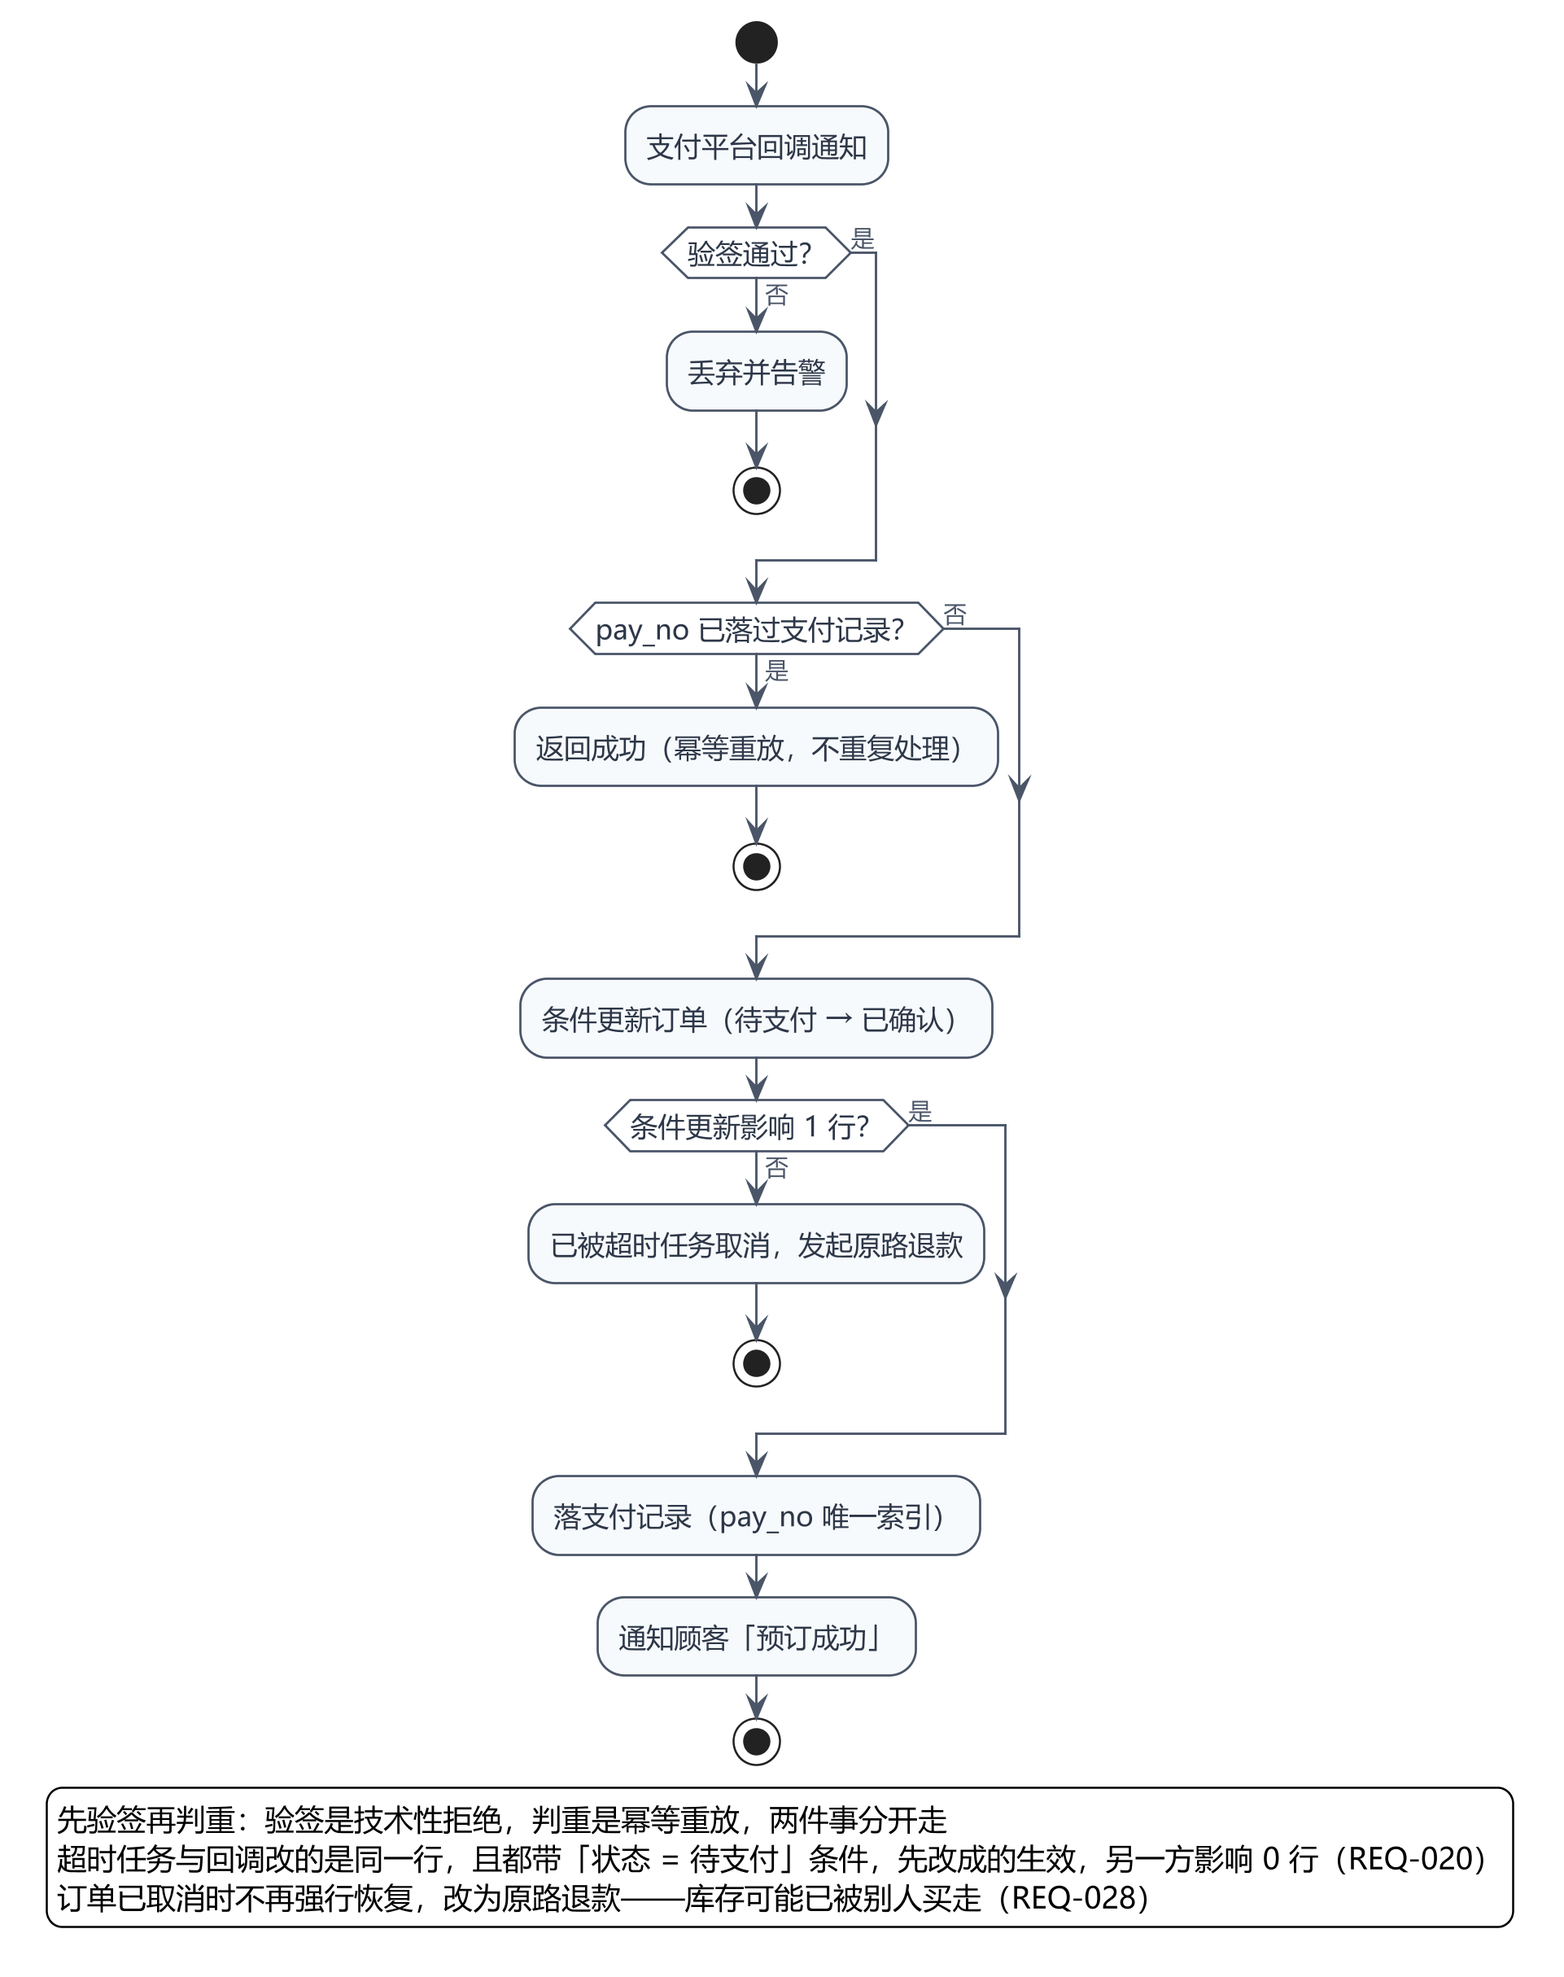
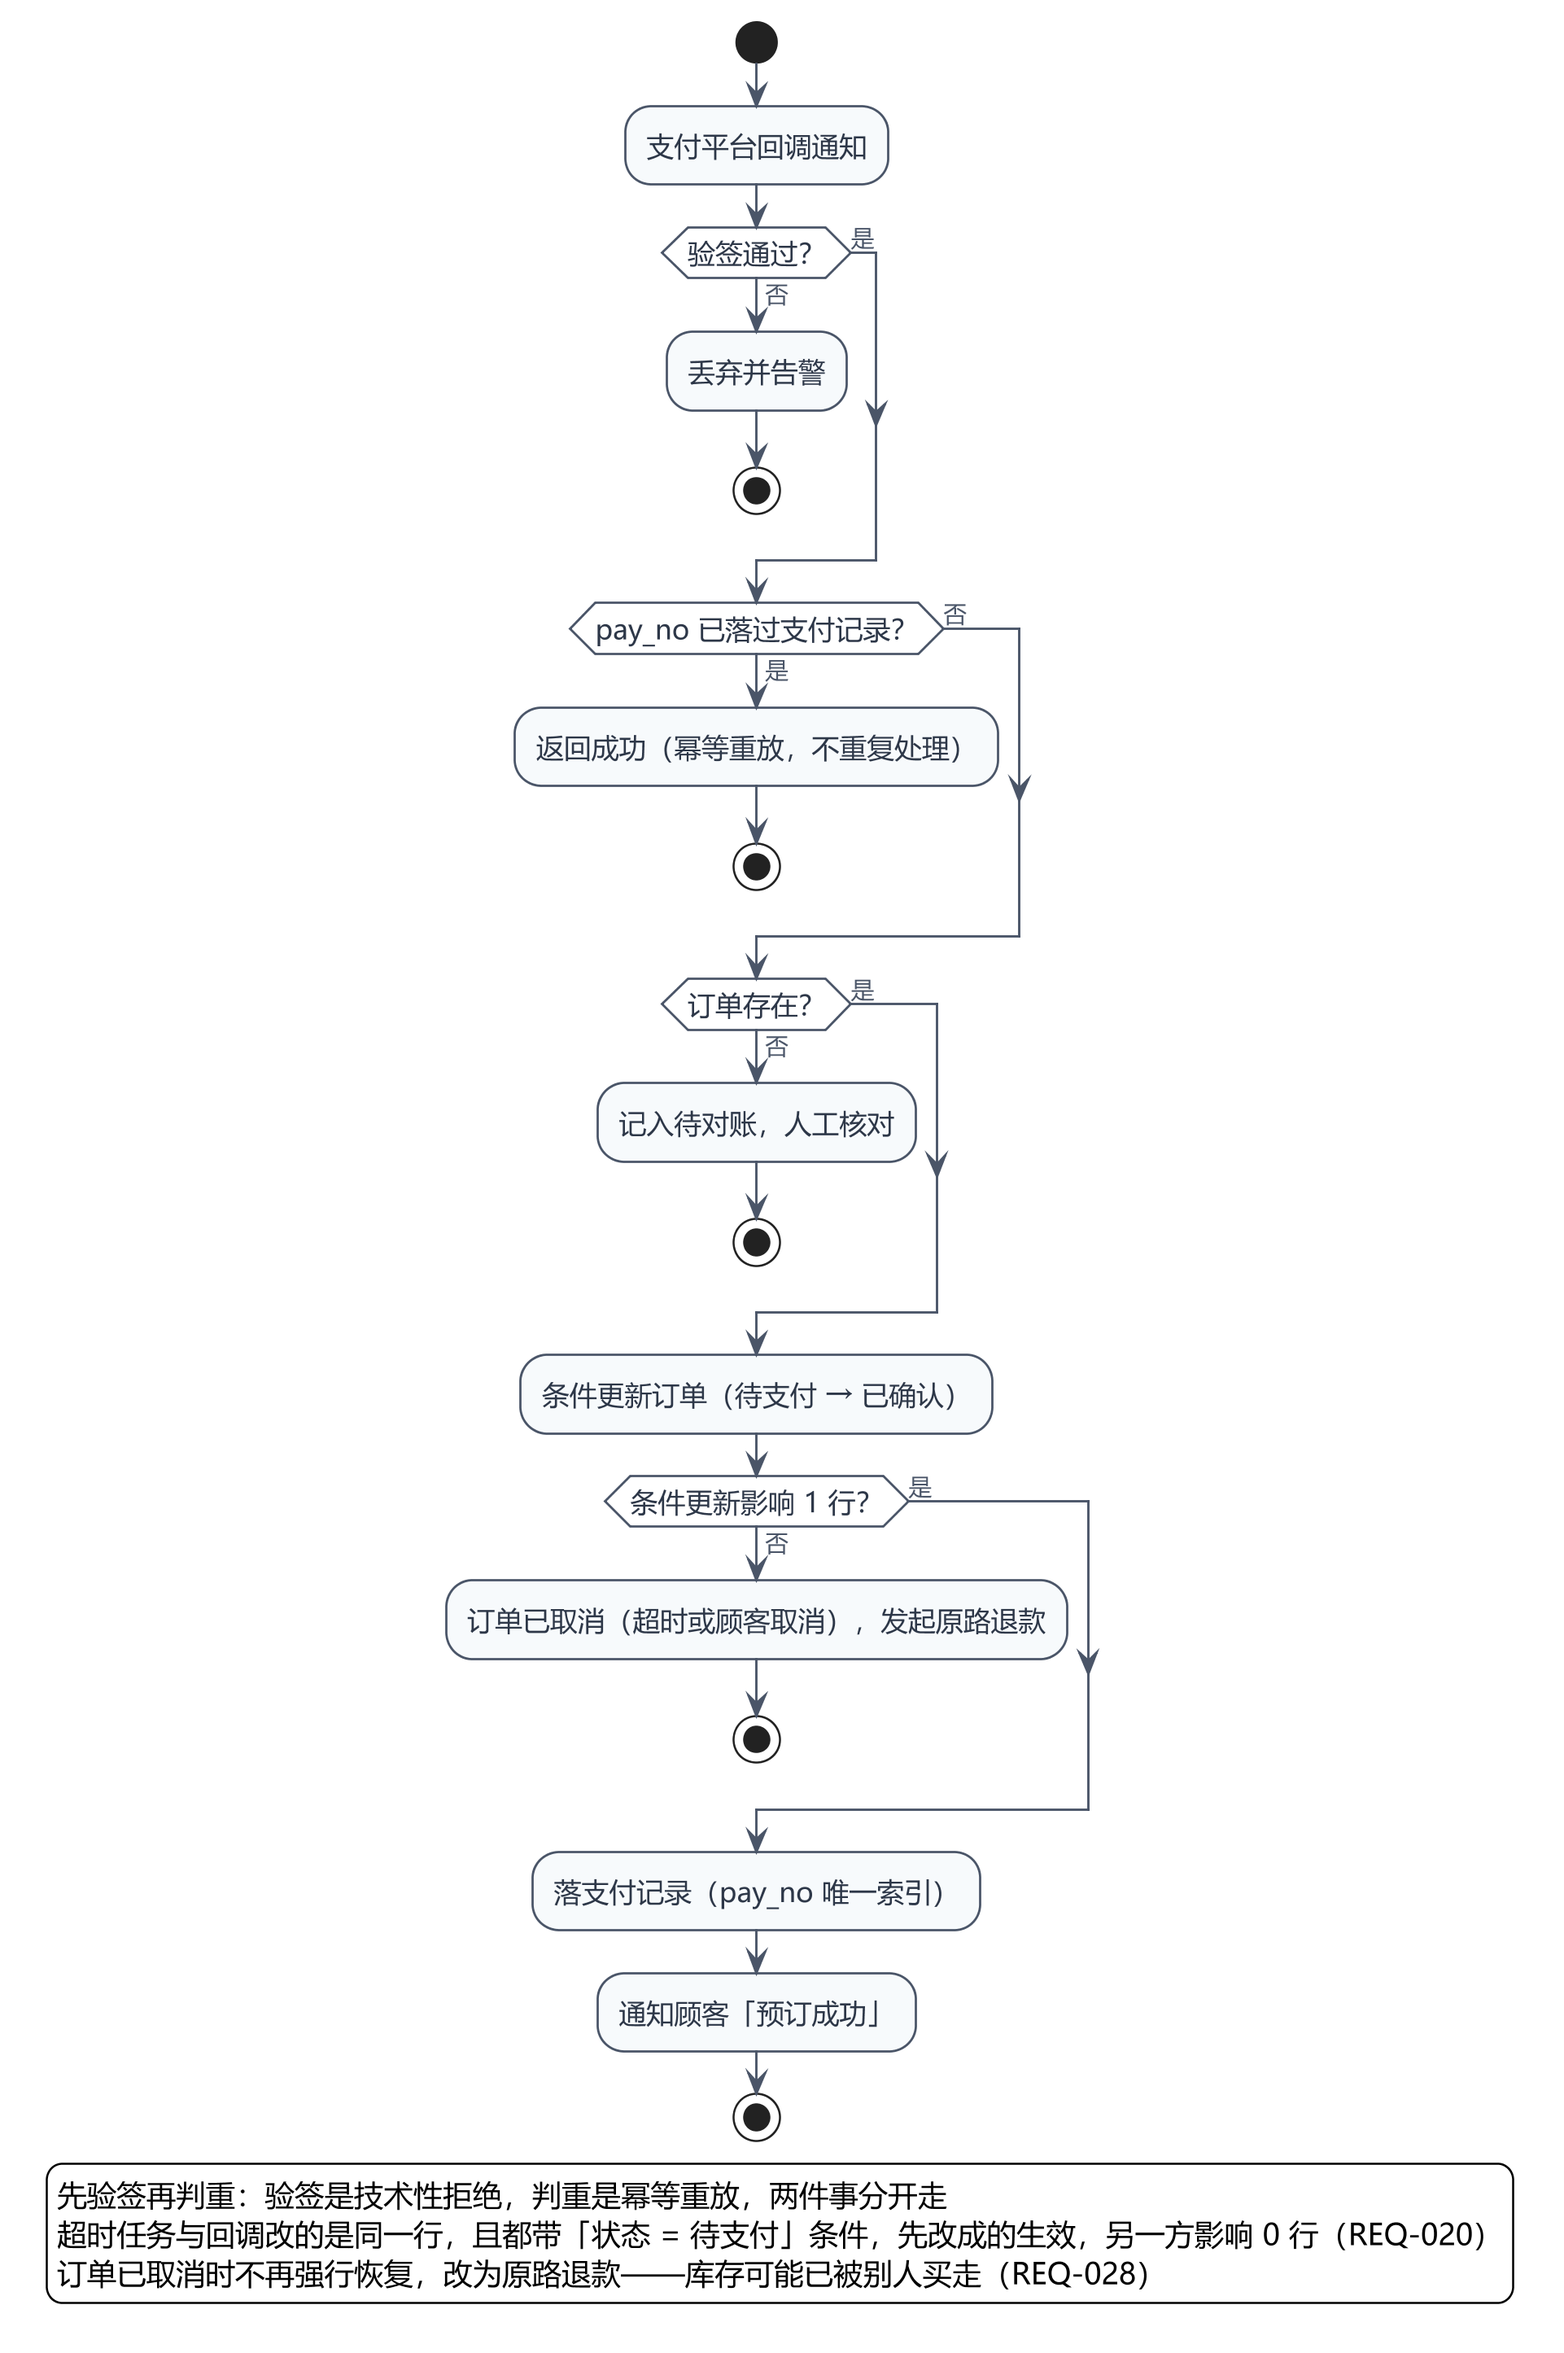
按第三轮评审修正用例图同步、状态机与对账缺口
- 重出店长端用例图 PNG（此前 PNG 早于 puml 修改）
- 订单状态图补「未到店 → 已取消（自助/审批）」，同步转换表
- 支付回调活动图补「订单不存在 → 待对账」分支
- orders 表补可空 pay_no 唯一列，支撑对账补单幂等
- 类图占房记录改按晚、补片区—用户关联、审计日志补字段
- 统一第 7 章表数口径与提交记录，写明 9 屏由 HTML 重出
- 16 屏删除区间外特批，改为超区间拒绝

Changed region(s): [[0.0312, 0.0, 0.9677, 0.9881]]

diff --git a/实验报告/ch7.tex b/实验报告/ch7.tex
@@ -90,7 +90,7 @@ U-07 & 数据库表结构起草 & 第 4 章的 22 张表与约束说明 & 初稿
 
 \textbf{生成结果。} AI 根据功能清单和跨屏示例数据，用 HTML 与 CSS 生成 01--16 屏初稿，后来补出 17--19 屏，并提供页面文字、表格与状态样式。曾尝试用 Pixso AI 批量生成界面，但出现漏字段和编造数字的问题，因此实际图稿以 HTML/CSS 初稿为基础导入 Pixso。
 
-\textbf{讨论与修改。} 我与 AI 讨论排房三步、线下保留额度、审批和各角色可见范围等界面内容。核对时发现不同屏的库存、金额、评分和取消文案不一致，要求按需求原文和统一示例数据修正，具体问题见 U-04。导入 Pixso 后，我调整了部分界面的圆角、描边和间距，再导出 19 张 PNG。
+\textbf{讨论与修改。} 我与 AI 讨论排房三步、线下保留额度、审批和各角色可见范围等界面内容。核对时发现不同屏的库存、金额、评分和取消文案不一致，要求按需求原文和统一示例数据修正，具体问题见 U-04。导入 Pixso 后，我调整了部分界面的圆角、描边和间距，再导出 PNG。最后一轮修改中，价格、审批、人员清单等 9 屏改完 HTML 后由无头浏览器按 2 倍像素重出，未再回到 Pixso 调整。
 
 \textbf{优缺点与结果。} AI 能较快给出一组风格相近的页面，便于检查每个模块是否有入口；它不能自动保证跨屏数据、权限和业务规则一致。最终以修订后的 19 张图和第 6 章的界面—模块—需求表为准。
 
@@ -116,7 +116,7 @@ U-07 & 数据库表结构起草 & 第 4 章的 22 张表与约束说明 & 初稿
 
 \subsection{git 提交与人工修改记录}
 
-\textbf{记录方式。} 仓库从实验二第一版设计稿建立，此后每轮改动单独提交，提交信息写实际改了什么，不把 AI 初稿和人工修改拆成两个编造出来的提交。截至本轮修改前共 9 次提交：
+\textbf{记录方式。} 仓库从实验二第一版设计稿建立，此后每轮改动单独提交，提交信息写实际改了什么，不把 AI 初稿和人工修改拆成两个编造出来的提交。报告定稿前共 11 次提交，另有一次定稿提交：
 
 \begin{table}[H]
 \centering
@@ -135,6 +135,8 @@ U-07 & 数据库表结构起草 & 第 4 章的 22 张表与约束说明 & 初稿
 \texttt{347934e} & 2026-11-08 & 统一 AI 设计与总结两处的协作流程表述 \\
 \texttt{8544262} & 2026-11-08 & 第 8.3 节由八项未完成事项精简为两项 \\
 \texttt{a822c19} & 2026-11-08 & 删除实验二不要求的「与实验三的衔接」一节 \\
+\texttt{2f793d4} & 2026-11-08 & 修正并发抢房时序图的下单顺序；第 4 章补片区、排班、价格区间三表 \\
+\texttt{db6ebf0} & 2026-11-08 & 按评审意见改用例职责、逐晚计价与线下额度拒绝规则 \\
 \bottomrule
 \end{tabularx}
 \end{table}
@@ -147,7 +149,7 @@ U-07 & 数据库表结构起草 & 第 4 章的 22 张表与约束说明 & 初稿
   \item \textbf{删掉要求之外的内容。} 报告末尾原有的「对实验三的衔接」一节，我对照实验二要求确认并非必需，要求删除；第 6.1.1 节的布局配色参数同样因与实验内容无关而删除。
 \end{enumerate}
 
-\textbf{本轮新增的三张表。} 对照类图核对数据表时发现，类图里的片区、排班、价格区间三个实体在第 4 章没有对应表，\texttt{user} 和 \texttt{store} 的 \texttt{region\_id} 也因此没有父表。据此补 \texttt{region}、\texttt{schedule}、\texttt{price\_range} 三张表，表数由 17 改为 20，属本轮人工核对后发现的缺口。
+\textbf{后续两次补表。} 对照类图逐类核对数据表时发现两处缺口。第一次是片区、排班、价格区间三个实体，\texttt{user} 和 \texttt{store} 的 \texttt{region\_id} 也因此没有父表，据此补 \texttt{region}、\texttt{schedule}、\texttt{price\_range} 三张表，表数由 17 改为 20。第二次是删除数据申请与门店绩效汇总两个类，补 \texttt{delete\_request}、\texttt{store\_performance} 两张表，表数改为 22。两次都由人工核对发现，不是 AI 起草时给出的。
 
 \textbf{早期迭代的处理。} 首次入库之前的设计迭代（模块从 10 个减到 9 个又回到 10 个、类图十余版、状态图二十余版）没有以提交形式保留。把它拆成「AI 初稿 / 人工修改」两个提交可以做出好看的差异记录，但那个初稿是按最终稿反推的，不是当时真实的文件，因此没有这样补。真实过程记在本章各条记录和 \texttt{\_过程材料/AI使用记录.md} 中。
 

diff --git a/实验报告/ch5.tex b/实验报告/ch5.tex
@@ -18,8 +18,8 @@
 3 & UML 组件图 & 结构 & 十个模块的调用与订阅，回答「模块之间怎么协作」 \\
 4 & UML 部署图 & 结构 & 应用、缓存、数据库与外部系统的物理分布 \\
 5 & UML 用例图·顾客端 & 行为 & 顾客能做什么，include / extend 关系 \\
-6 & UML 用例图·前台端 & 行为 & 前台的九个用例与「入住包含排房」 \\
-7 & UML 用例图·店长端 & 行为 & 店长的七个用例与「改价扩展自设价」 \\
+6 & UML 用例图·前台端 & 行为 & 前台的十个用例与「入住包含排房」 \\
+7 & UML 用例图·店长端 & 行为 & 店长的七个用例：设价、三类审批、派单、排班、看绩效 \\
 8 & UML 用例图·平台端 & 行为 & 平台地区负责人的六个用例 \\
 9 & UML 状态图·订单 & 行为 & 订单六态与超时、未到店两条时间分支 \\
 10 & UML 状态图·房间 & 行为 & 房间六态与维修旁路 \\
@@ -59,7 +59,7 @@
 
 \begin{figure}[htbp]
 \centering
-\includegraphics[width=0.72\textwidth]{../UML/UML用例图_前台端.png}
+\includegraphics[width=0.66\textwidth]{../UML/UML用例图_前台端.png}
 \caption{UML 用例图：前台端}
 \label{fig:uc_f}
 \end{figure}
@@ -113,7 +113,8 @@
 已确认 & 已取消 & 自助 / 审批通过 & 18:00 为界（REQ-021） \\
 已确认 & 未到店 & 定时任务 & 入住日 22:00 \\
 未到店 & 已入住 & 前台办理入住 & 仅限次日 12:00 前 \\
-未到店 & 已取消 & 定时任务 & 次日 12:00，不退房费 \\
+未到店 & 已取消 & 自助 / 审批通过 & 次日 12:00 前主动取消（REQ-021） \\
+未到店 & 已取消 & 定时任务 & 次日 12:00 仍未到店，不退房费 \\
 已入住 & 已退房 & 前台确认退房 & 与房间状态同步变更 \\
 \midrule
 \multicolumn{4}{@{}l}{\zihao{5}禁止：待支付 $\rightarrow$ 已入住 / 已退房 / 未到店；已确认 $\rightarrow$ 已退房；已入住 $\rightarrow$ 已取消 / 未到店；} \\

diff --git a/实验报告/ch4.tex b/实验报告/ch4.tex
@@ -225,6 +225,7 @@ created\_by & CHAR(20) & FK & 下发该区间的平台地区负责人 \\
 \midrule
 order\_no & CHAR(22) & PK & 订单号，含日期前缀 \\
 request\_no & CHAR(36) & \textbf{UNIQUE} & 请求号，REQ-010 的幂等键 \\
+pay\_no & CHAR(32) & NULL, \textbf{UNIQUE} & 支付单号；对账补单时回填，保证同一笔支付只补一单 \\
 customer\_id & CHAR(20) & FK & 下单顾客 \\
 store\_id & CHAR(20) & FK & 所属门店 \\
 status & TINYINT & NOT NULL & 六种订单状态之一 \\
@@ -333,7 +334,7 @@ assigned\_at & DATETIME & NOT NULL & 排房时刻 \\
 \midrule
 \texttt{approval} & 三类审批共表，字段 \texttt{type} 区分改价 / 取消 / 升级房型；流水号唯一，防止同一申请重复入审批 \\[2pt]
 \texttt{review} & \texttt{order\_no} 唯一，保证一单一评；评分 \texttt{CHECK (score BETWEEN 1 AND 5)} \\[2pt]
-\texttt{audit\_log} & 只增不改；数据库账号对该表只授予 INSERT 与 SELECT，不授予 UPDATE、DELETE \\[2pt]
+\texttt{audit\_log} & 记录操作人、角色快照、原因、来源 IP 与设备、动作、对象、变更前后值与时间；只增不改，数据库账号对该表只授予 INSERT 与 SELECT（REQ-014） \\[2pt]
 \texttt{notice} & 记录渠道、状态、失败原因、重试次数、下次重试时间；与订单事务无关，写入失败不影响下单 \\[2pt]
 \texttt{reconciliation} & 每日一条对账任务记录，差异单笔落行，\texttt{handle\_result} 记录补单 / 退款 / 转人工 \\[2pt]
 \texttt{delete\_request} & \texttt{request\_id}（PK）、\texttt{target\_type} 与 \texttt{target\_id} 指明待删数据、\texttt{reason}、\texttt{requester\_id}、\texttt{approver\_id}、\texttt{status}（待审批 / 已批准 / 已驳回）；同一对象未结案时唯一，批准后由 M9 执行删除并留审计（REQ-030） \\[2pt]

diff --git a/实验报告/ch6.tex b/实验报告/ch6.tex
@@ -1,7 +1,7 @@
 % ==================== 六、UI 设计 ====================
 \section{UI 设计}
 
-顾客端采用手机画幅，前台、店长和平台端采用桌面画幅。19 屏的初稿由 AI 辅助生成 HTML 与 CSS，导入 Pixso 后调整部分界面并导出 PNG；设计分工与修改过程见第 7 章。
+顾客端采用手机画幅，前台、店长和平台端采用桌面画幅。19 屏的初稿由 AI 辅助生成 HTML 与 CSS，导入 Pixso 后调整部分界面并导出 PNG。最后一轮改动涉及的价格、审批与人员清单等 9 屏，改完 HTML 后用无头浏览器按 2 倍像素重出，版式参数与原导出保持一致。设计分工与修改过程见第 7 章。
 
 \subsection{界面一致性约束}
 

diff --git a/_过程材料/AI使用记录.md b/_过程材料/AI使用记录.md
@@ -205,3 +205,14 @@
 - **讨论与判断**：本人选定修复其中大部分。核对时确认：REQ-006 是店长审批前台提交的改价申请，REQ-025 是店长提交工单、前台执行，REQ-033 明确线下开单不得占用线上库存；因此"审批超限开单"这条路径本身与需求冲突，予以删除，而不是改写成另一种审批方式。
 - **修改优化后的结果**：店长/前台用例图职责对调并补漏；03/04/05 屏改为逐晚计价（10-31 ¥428 + 11-01 ¥498 = ¥926）；11 屏额度不足改为直接拒绝，13 屏换成 18:00 后取消审批；12 屏与第 4 章统一"上限重算后写入";类图补打卡字段，第 4 章补 delete_request、store_performance 两表（22 张）；19 屏平台端不再列前台明细。
 - **优缺点分析**：评审能发现作者自查漏掉的跨屏与图文矛盾，但它给出的行号不可信（如指向 233 行文件的第 1007 行），必须按内容复核。界面图由 `_过程材料/_ui/` 的 HTML 用无头 Edge 按 2 倍像素重出，与 Pixso 导出效果一致。
+
+---
+
+### R-08 第三轮模拟评审后的修改
+
+- **时间**：2026-11-08
+- **使用场景与输入**：本人要求再做一轮评分。输入为 58 页报告、22 张表、16 组 UML、19 屏 UI 与提交包。
+- **AI 生成结果**：评审给出 82 分，指出店长用例图 PNG 未随源文件重出、第 7 章表数 17/20/22 并存、订单状态机缺「未到店→已取消」、支付回调活动图缺「订单不存在」分支、`orders` 缺 `pay_no`、类图三处与表不一致、UI 出图方式表述矛盾。
+- **讨论与判断**：先核对时间戳，确认店长用例图 PNG（20:52）确实早于 puml（20:54），属实际错误，立即重出。其余逐条核对后修复；「未到店→已取消」依据 REQ-021 的前置条件与 REQ-022 的说明补入。
+- **修改优化后的结果**：重出店长用例图与类图；订单状态图补一条转换并同步转换表；支付回调活动图补「订单不存在→待对账」；`orders` 补可空 `pay_no` 唯一列；类图占房记录改按晚、补片区—用户关联、审计日志补操作人与来源字段；第 6、7 章写明最后一轮 9 屏由无头浏览器重出；第 7 章提交表补到 11 次；16 屏删除「区间外特批」，改为超区间拒绝。报告 57 页。
+- **优缺点分析**：这次评审在读图受限的情况下仍靠时间戳和源文件发现了 PNG 未同步的问题，说明核对应同时看内容与文件时间。其行号引用这次基本准确，但个别行仍与实际有偏差，仍需按内容复核。
